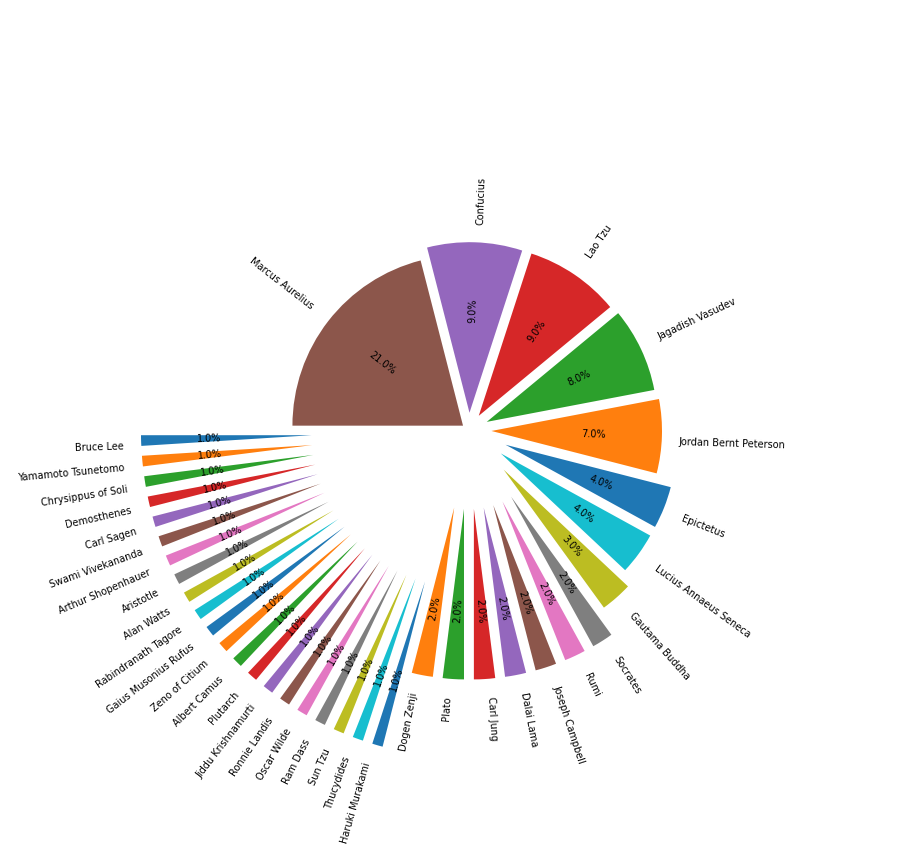
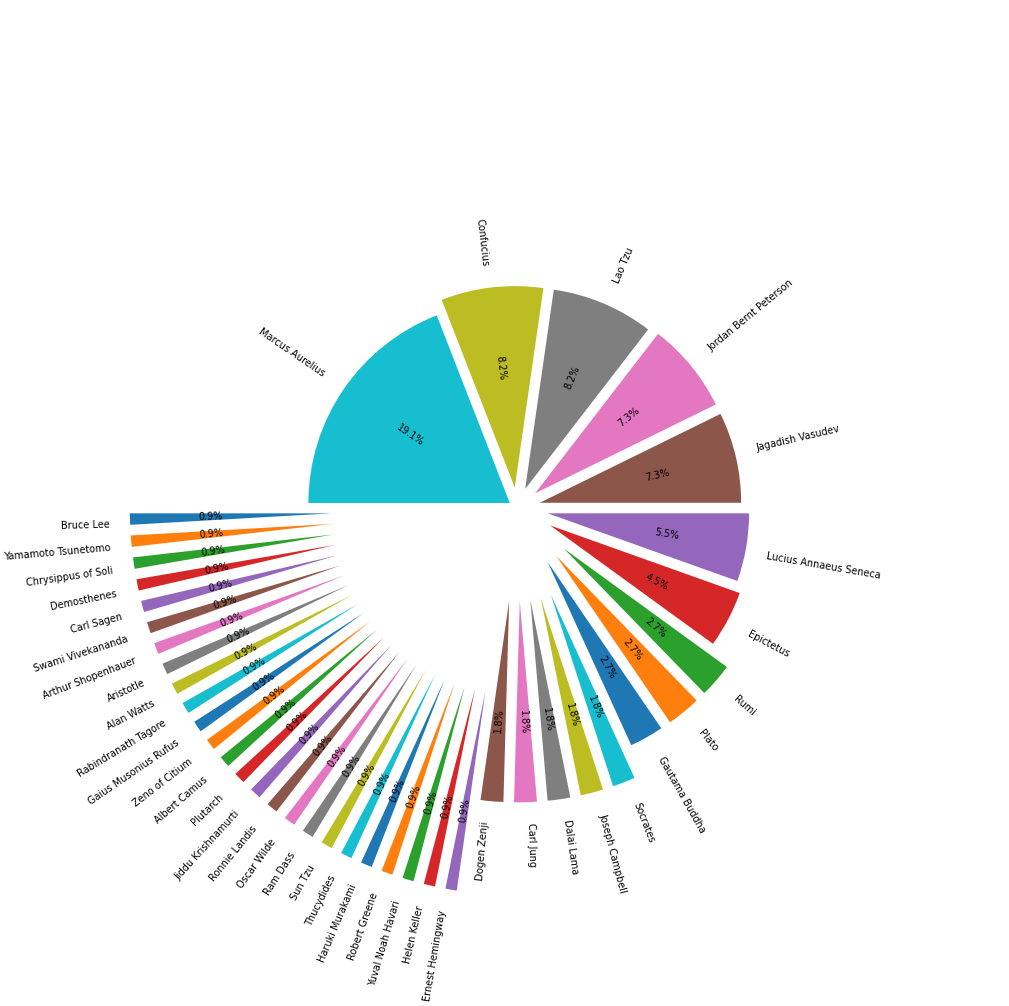
100->110

diff --git a/log.html b/log.html
@@ -1803,25 +1803,25 @@ function stopPropagation(event) {
 window.output = {};
 </script>
 <script type="text/javascript">
-window.output["suite"] = [1,2,3,4,[],[1,0,10191],[],[[5,0,6,[7,8],[1,344,3251],[[0,9,10,0,0,11,12,0,[1,345,3248],[[3593,2,13]]],[0,14,15,0,16,12,0,0,[1,3594,0],[[3594,2,17]]],[2,18,15,0,19,20,0,0,[1,3595,0],[]]]],[21,0,22,[8],[1,3596,6593],[[0,9,10,0,0,23,24,0,[1,3597,3294],[[6890,2,25]]],[0,9,10,0,0,26,27,0,[1,6891,3293],[[10184,2,28]]],[5,29,0,0,0,0,0,0,[1,10185,3],[[0,30,0,0,31,32,0,0,[1,10186,2],[[0,33,15,0,34,35,0,0,[1,10186,2],[[0,36,15,0,37,38,0,0,[1,10186,1],[[10186,3,40]]],[0,36,15,0,37,41,0,0,[1,10187,0],[[10187,2,41]]],[0,36,15,0,37,42,0,0,[1,10187,1],[[10188,3,44]]]]]]]]],[0,14,15,0,16,27,0,0,[1,10189,0],[[10189,2,17]]],[2,18,15,0,19,45,0,0,[1,10189,0],[]]]]],[[1,46,0,0,47,0,0,0,[1,317,27],[[0,48,49,0,0,50,51,0,[1,317,26],[[342,2,52],[343,2,53]]],[0,54,15,0,55,51,0,0,[1,343,1],[[344,2,53]]]]]],[2,2,0,0]];
+window.output["suite"] = [1,2,3,4,[],[1,0,7729],[],[[5,0,6,[7,8],[1,208,2499],[[0,9,10,0,0,11,12,0,[1,209,2496],[[2705,2,13]]],[0,14,15,0,16,12,0,0,[1,2706,0],[[2706,2,17]]],[2,18,15,0,19,20,0,0,[1,2707,0],[]]]],[21,0,22,[8],[1,2709,5019],[[0,9,10,0,0,23,24,0,[1,2709,2513],[[5222,2,25]]],[0,9,10,0,0,26,27,0,[1,5223,2499],[[7722,2,28]]],[5,29,0,0,0,0,0,0,[1,7723,3],[[0,30,0,0,31,32,0,0,[1,7723,3],[[0,33,15,0,34,35,0,0,[1,7724,2],[[0,36,15,0,37,38,0,0,[1,7724,1],[[7724,3,40]]],[0,36,15,0,37,41,0,0,[1,7725,0],[[7725,2,41]]],[0,36,15,0,37,42,0,0,[1,7725,1],[[7726,3,44]]]]]]]]],[0,14,15,0,16,27,0,0,[1,7727,0],[[7727,2,17]]],[2,18,15,0,19,45,0,0,[1,7727,1],[]]]]],[[1,46,0,0,47,0,0,0,[1,192,16],[[0,48,49,0,0,50,51,0,[1,193,15],[[207,2,52],[208,2,53]]],[0,54,15,0,55,51,0,0,[1,208,0],[[208,2,53]]]]]],[2,2,0,0]];
 </script>
 <script type="text/javascript">
 window.output["strings"] = [];
 </script>
 <script type="text/javascript">
[2 lines of base64/hex data omitted]
 </script>
 <script type="text/javascript">
-window.output["stats"] = [[{"elapsed":"00:00:10","fail":0,"label":"All Tests","pass":2,"skip":0}],[{"elapsed":"00:00:03","fail":0,"label":"duplicate check","pass":1,"skip":0},{"elapsed":"00:00:10","fail":0,"label":"similarity check","pass":2,"skip":0}],[{"elapsed":"00:00:10","fail":0,"id":"s1","label":"Quote Similarity Test","name":"Quote Similarity Test","pass":2,"skip":0}]];
+window.output["stats"] = [[{"elapsed":"00:00:08","fail":0,"label":"All Tests","pass":2,"skip":0}],[{"elapsed":"00:00:02","fail":0,"label":"duplicate check","pass":1,"skip":0},{"elapsed":"00:00:08","fail":0,"label":"similarity check","pass":2,"skip":0}],[{"elapsed":"00:00:08","fail":0,"id":"s1","label":"Quote Similarity Test","name":"Quote Similarity Test","pass":2,"skip":0}]];
 </script>
 <script type="text/javascript">
-window.output["errors"] = [[10186,3,40,39],[10188,3,44,43]];
+window.output["errors"] = [[7724,3,40,39],[7726,3,44,43]];
 </script>
 <script type="text/javascript">
-window.output["baseMillis"] = 1658388723868;
+window.output["baseMillis"] = 1658407589096;
 </script>
 <script type="text/javascript">
-window.output["generated"] = 10204;
+window.output["generated"] = 7736;
 </script>
 <script type="text/javascript">
 window.output["expand_keywords"] = null;

diff --git a/report.html b/report.html
@@ -1629,7 +1629,7 @@ storage = function () {
 window.output = {};
 </script>
 <script type="text/javascript">
-window.output["suite"] = [1,2,3,4,[],[1,0,10191],[],[[5,0,6,[7,8],[1,344,3251],[]],[9,0,10,[8],[1,3596,6593],[]]],[],[2,2,0,0]];
+window.output["suite"] = [1,2,3,4,[],[1,0,7729],[],[[5,0,6,[7,8],[1,208,2499],[]],[9,0,10,[8],[1,2709,5019],[]]],[],[2,2,0,0]];
 </script>
 <script type="text/javascript">
 window.output["strings"] = [];
@@ -1638,13 +1638,13 @@ window.output["strings"] = [];
 window.output["strings"] = window.output["strings"].concat(["*","*Quote Similarity Test","*C:\\Users\\dolacins\\PycharmProjects\\quote-omni-die\\tests\\quote_similarity_test.robot","*tests/quote_similarity_test.robot","*<p>General test case for checking similarity betweeen two quotes as to avoid duplicate or similar quotes\x3c/p>","*Duplicate quote test","*<p>Fails if it finds duplicate quotes\x3c/p>","*duplicate check","*similarity check","*quote similarity test","*<p>Fails if it finds too similar quotes, logs all the bad quotes as well as suspiciously similoar quotes\x3c/p>"]);
 </script>
 <script type="text/javascript">
-window.output["stats"] = [[{"elapsed":"00:00:10","fail":0,"label":"All Tests","pass":2,"skip":0}],[{"elapsed":"00:00:03","fail":0,"label":"duplicate check","pass":1,"skip":0},{"elapsed":"00:00:10","fail":0,"label":"similarity check","pass":2,"skip":0}],[{"elapsed":"00:00:10","fail":0,"id":"s1","label":"Quote Similarity Test","name":"Quote Similarity Test","pass":2,"skip":0}]];
+window.output["stats"] = [[{"elapsed":"00:00:08","fail":0,"label":"All Tests","pass":2,"skip":0}],[{"elapsed":"00:00:02","fail":0,"label":"duplicate check","pass":1,"skip":0},{"elapsed":"00:00:08","fail":0,"label":"similarity check","pass":2,"skip":0}],[{"elapsed":"00:00:08","fail":0,"id":"s1","label":"Quote Similarity Test","name":"Quote Similarity Test","pass":2,"skip":0}]];
 </script>
 <script type="text/javascript">
-window.output["baseMillis"] = 1658388723868;
+window.output["baseMillis"] = 1658407589096;
 </script>
 <script type="text/javascript">
-window.output["generated"] = 10204;
+window.output["generated"] = 7736;
 </script>
 <script type="text/javascript">
 window.output["expand_keywords"] = null;

diff --git a/scripts/quote_bringer.py b/scripts/quote_bringer.py
@@ -33,4 +33,4 @@ def search_quote_by_author(search_criteria):
             print()
 
 
-search_quote_by_author('Aristotle')
+search_quote_by_author('Helen Keller')
